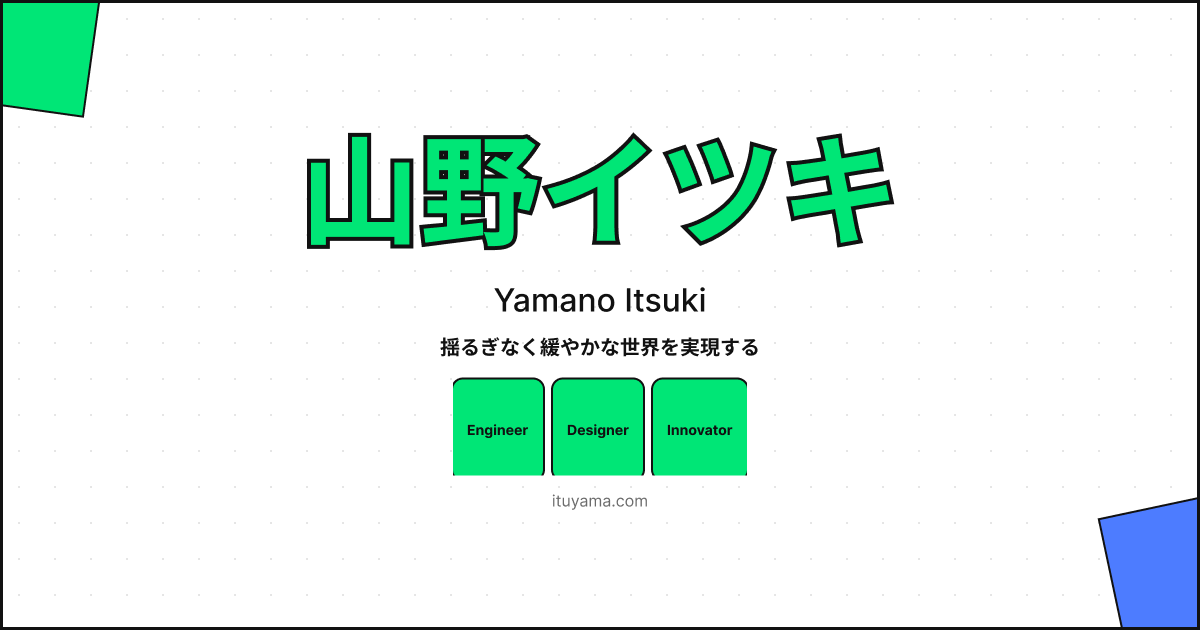
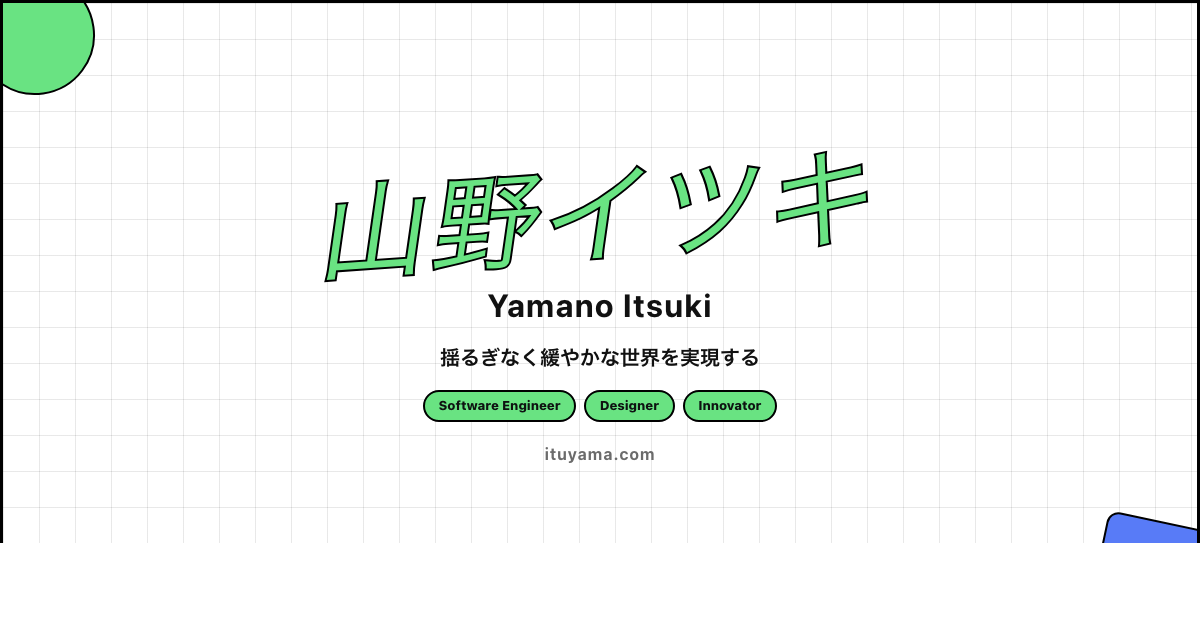
Add a web-rendered name-centered OGP page and npm script to export ogp.png.
/og uses OgCard with site typography and chips; npm run ogp builds static HTML and screenshots it at 1200×630 without a portrait.

diff --git a/app/globals.css b/app/globals.css
@@ -1305,6 +1305,124 @@ body {
   font-family: "LINE Seed JP", var(--font-sans);
 }
 
+/* 1200×630 Open Graph card at /og */
+html:has(.og-card),
+html:has(.og-card) body {
+  width: 1200px;
+  height: 630px;
+  margin: 0;
+  padding: 0;
+  overflow: hidden;
+  background: #ffffff;
+}
+
+.og-card {
+  position: relative;
+  box-sizing: border-box;
+  display: flex;
+  width: 1200px;
+  height: 630px;
+  align-items: center;
+  justify-content: center;
+  overflow: hidden;
+  border: 3px solid #000000;
+  background-color: #ffffff;
+  background-image:
+    linear-gradient(to right, #11111118 1px, transparent 1px),
+    linear-gradient(to bottom, #11111118 1px, transparent 1px);
+  background-size: 36px 36px;
+}
+
+.og-card-accent {
+  position: absolute;
+  z-index: 0;
+  border: 2px solid #000000;
+}
+
+.og-card-accent-lime {
+  top: -28px;
+  left: -28px;
+  width: 120px;
+  height: 120px;
+  border-radius: 999px;
+  background: var(--color-bento-accent);
+  transform: rotate(-8deg);
+}
+
+.og-card-accent-blue {
+  right: -36px;
+  bottom: -36px;
+  width: 140px;
+  height: 140px;
+  border-radius: 12px;
+  background: #4d7cff;
+  transform: rotate(12deg);
+}
+
+.og-card-inner {
+  position: relative;
+  z-index: 1;
+  display: flex;
+  flex-direction: column;
+  align-items: center;
+  gap: 14px;
+  padding: 0 48px;
+  text-align: center;
+}
+
+.og-card-name {
+  margin: 0;
+  font-family: "Dela Gothic One", var(--font-sans);
+  font-size: 108px;
+  font-weight: 400;
+  line-height: 0.95;
+  letter-spacing: 0.02em;
+  white-space: nowrap;
+  color: #00e676;
+  paint-order: stroke fill;
+  -webkit-text-stroke: 4px #000000;
+  transform: skewX(-12deg) rotate(-4deg);
+}
+
+.og-card-en {
+  margin: 0;
+  font-size: 32px;
+  font-weight: 700;
+  letter-spacing: 0.04em;
+  color: var(--color-bento-ink);
+}
+
+.og-card-tagline {
+  max-width: 28rem;
+  margin: 0;
+  font-size: 20px;
+  font-weight: 800;
+  line-height: 1.45;
+  color: var(--color-bento-ink);
+}
+
+.og-card-chips {
+  display: flex;
+  flex-wrap: wrap;
+  justify-content: center;
+  gap: 8px;
+  padding: 0;
+  margin: 4px 0 0;
+  list-style: none;
+}
+
+.og-card-chips .pop-chip {
+  font-size: 13px;
+}
+
+.og-card-domain {
+  margin: 6px 0 0;
+  font-size: 16px;
+  font-weight: 700;
+  letter-spacing: 0.06em;
+  color: var(--color-bento-muted);
+}
+
 .sr-only {
   position: absolute;
   width: 1px;

diff --git a/components/OgCard.tsx b/components/OgCard.tsx
@@ -1,0 +1,26 @@
+import { profile } from "@/lib/profile";
+
+/** 1200×630 Open Graph card — name centered, no portrait. */
+export default function OgCard() {
+  return (
+    <div className="og-card" aria-hidden="true">
+      <div className="og-card-accent og-card-accent-lime" />
+      <div className="og-card-accent og-card-accent-blue" />
+      <div className="og-card-inner">
+        <h1 className="og-card-name">{profile.nameJa}</h1>
+        <p className="og-card-en">{profile.nameEn}</p>
+        {profile.tagline ? <p className="og-card-tagline">{profile.tagline}</p> : null}
+        {profile.roles.length ? (
+          <ul className="og-card-chips">
+            {profile.roles.map((role) => (
+              <li key={role}>
+                <span className="pop-chip">{role}</span>
+              </li>
+            ))}
+          </ul>
+        ) : null}
+        <p className="og-card-domain">ituyama.com</p>
+      </div>
+    </div>
+  );
+}

diff --git a/app/og/page.tsx b/app/og/page.tsx
@@ -1,0 +1,11 @@
+import type { Metadata } from "next";
+import OgCard from "@/components/OgCard";
+
+export const metadata: Metadata = {
+  title: "OG",
+  robots: { index: false, follow: false },
+};
+
+export default function OgPage() {
+  return <OgCard />;
+}
